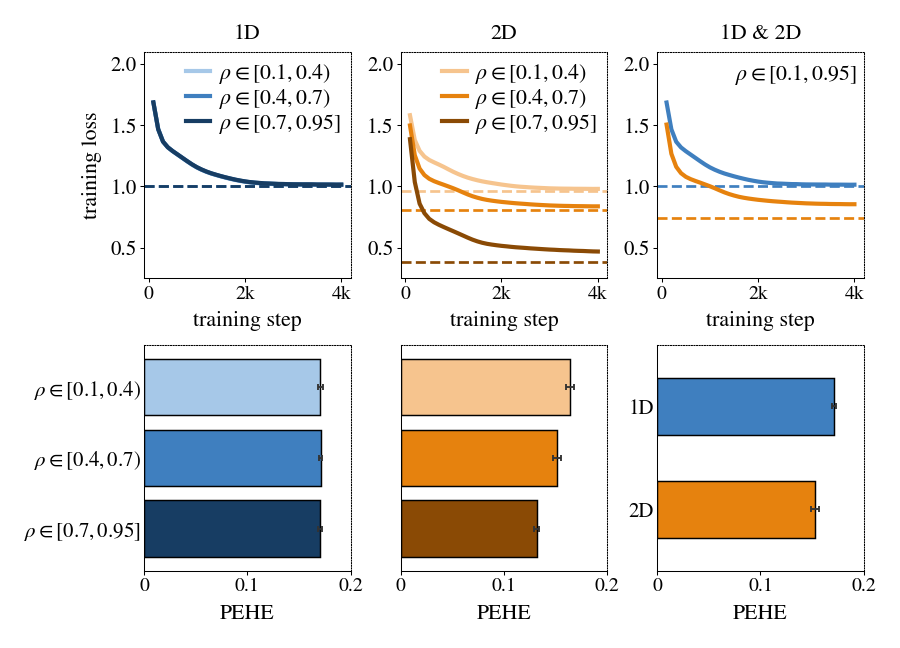
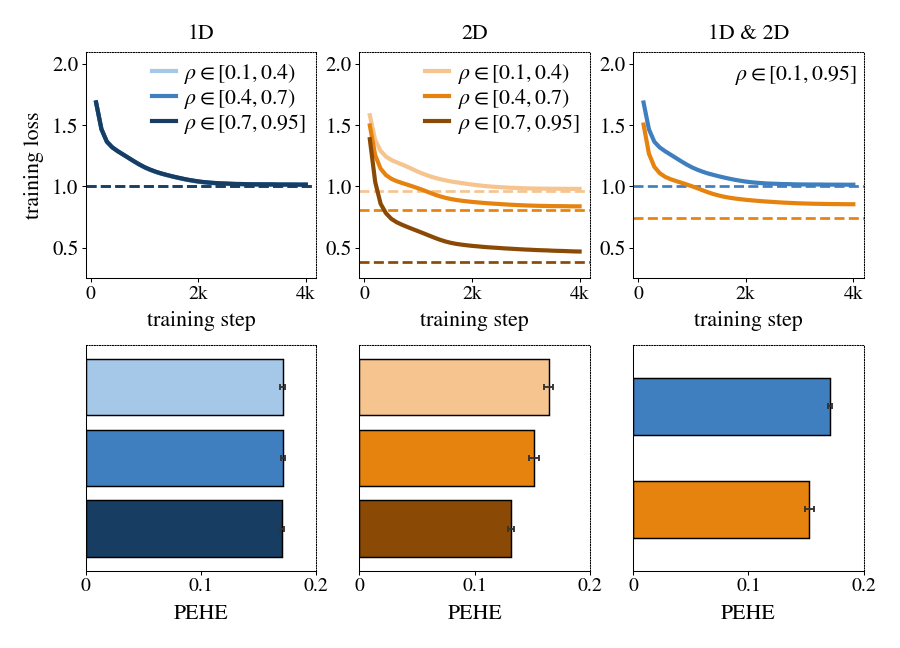
Toy figure: no y labels on the PEHE bars
Claude-Session: https://claude.ai/code/session_01AZV2d6TbWGuV4cMQVAXpNa

diff --git a/revision/theory/loss_geometry/fig_sim5_link.py b/revision/theory/loss_geometry/fig_sim5_link.py
@@ -49,9 +49,7 @@ for a in ax[0]:
 ax[0, 0].set_ylabel("training loss")
 for a in ax[1]:
     a.set_xlim(0, 0.2); a.set_xticks([0, 0.1, 0.2]); a.set_xlabel("PEHE")
-for a in ax[1, :2]:
-    a.set_yticks([2, 1, 0]); a.set_yticklabels(list(G.values()))
-ax[1, 1].set_yticklabels([])
-ax[1, 2].set_yticks([1, 0]); ax[1, 2].set_yticklabels(["1D", "2D"])
+for a in ax[1]:
+    a.set_yticks([])
 fig.tight_layout(w_pad=0.4, h_pad=0.6)
 for ext in ("png", "pdf"): fig.savefig(os.path.join(OUT, f"sim5_link.{ext}"), dpi=150)
